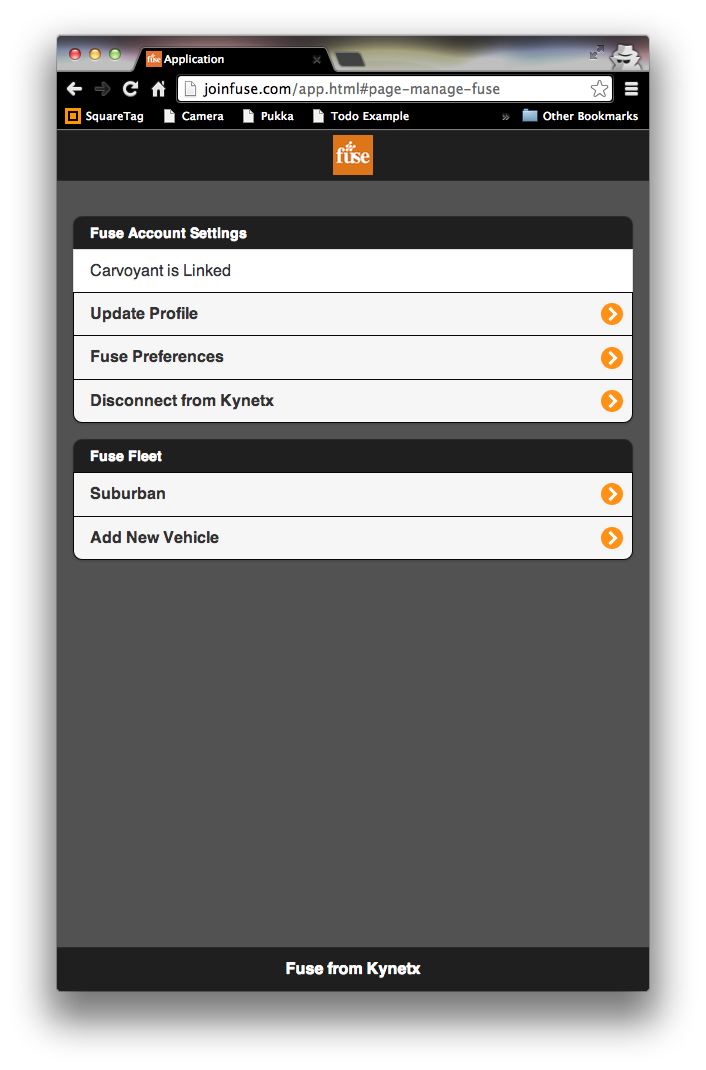
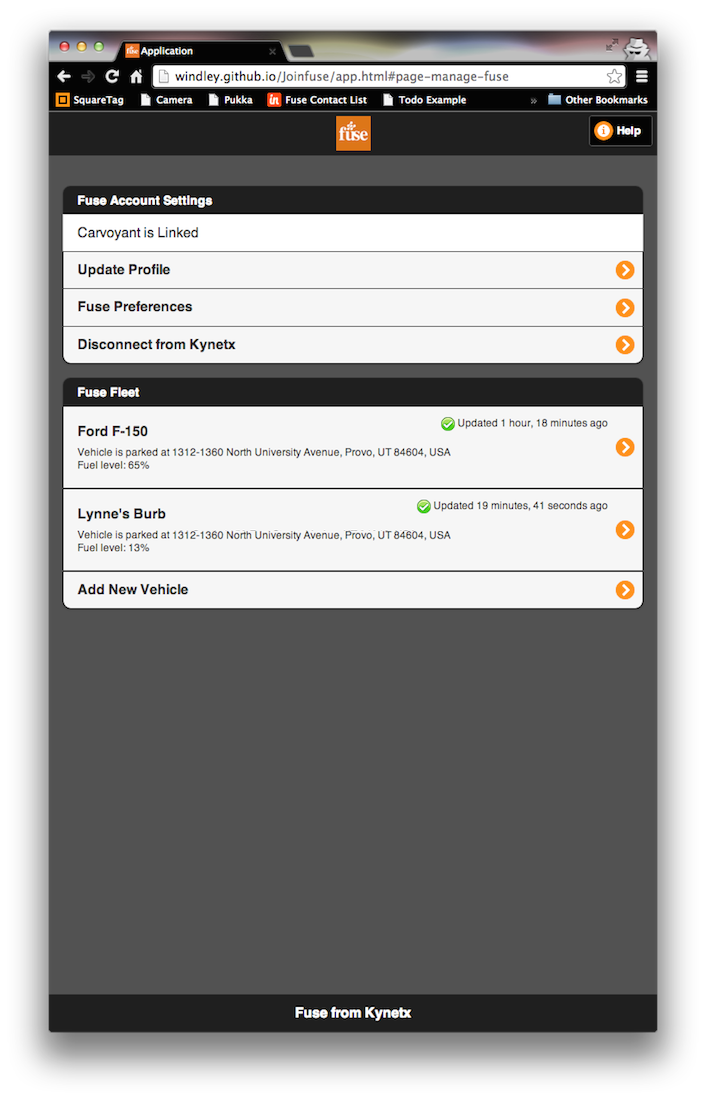
Update the help

diff --git a/app_help.html b/app_help.html
@@ -148,17 +148,34 @@ A picture to use as the logo for your vehicle (optional). This picture works bet
 </ul>
 
 <p>
-You can plug the Fuse device into the vehicle at any time. As soon as you've added the vehicle to the system, Fuse will begin tracking your trips. The device plugs into the OBD II port which will be located somewhere on the driver's side of your vehicle (<a href="https://www.carmd.com/70.6/Article/Find-My-Car's-Connector">Need help finding your OBD II port?</a>)
+You can plug the Fuse device into the vehicle at any time. As soon as you've added the vehicle to the system, Fuse will begin tracking your trips, so long as Carvoyant has been activated. The device plugs into the OBD II port which will be located somewhere on the driver's side of your vehicle (<a href="https://www.carmd.com/70.6/Article/Find-My-Car's-Connector">Need help finding your OBD II port?</a>)
 </p>
 
 <img style="height:450px;margin-top: 10px" src="img/app_help/app_add_vehicle_filled.png" border="0" hspace="3" vspace="3" align="center" title="Add a Vehicle to Fuse"alt="Add a Vehicle to Fuse" />
 
 
 <p>
-Once you add a vehicle to Fuse, you'll note that it shows up on the main page under Vehicles. Clicking it allows you to edit your vehicle. 
+Once you add a vehicle to Fuse, you'll note that it shows up on the main page under Vehicles. The vehicle bar shows the current status of the vehicle, including the approximate location, and the fuel level. (Note: not all vehicles support showing the fuel level by Fuse.)
 </p>
 
+
 <img style="height:450px;margin-top: 10px" src="img/app_help/app_main_vehicle_added.png" border="0" hspace="3" vspace="3" align="center" title="Fuse  App with a vehicle added"alt="Fuse  App with a vehicle added" />
+
+
+<p>
+The status will show either a green check mark along with a time that the status was last updated or a red stop sign. The red stop sign indicates that Fuse has not yet seen information about the vehicle. There are several reasons this might be so:
+</p>
+<ul>
+<li>Fuse doesn't know it's connected to the vehicle until Carvoyant is linked, the device is plugged in correctly, and the car has been turned on. </li>
+
+<li>The page might need to reloaded. The status doesn't update without the page being reloaded. </li>
+</ul>
+
+
+<p>
+Clicking a vehicle allows you to edit the information for your vehicle and will also show you a map of it's current location. 
+</p>
+
 
 <h2>Profile and Preferences</h2>
 
